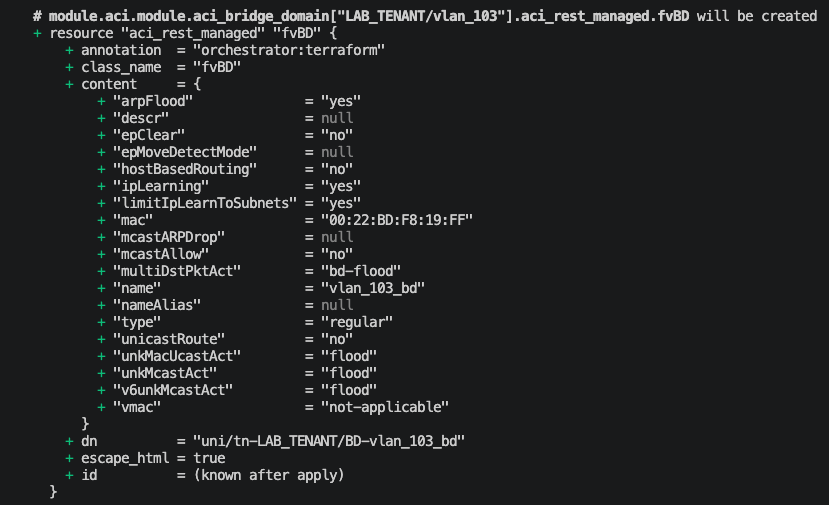
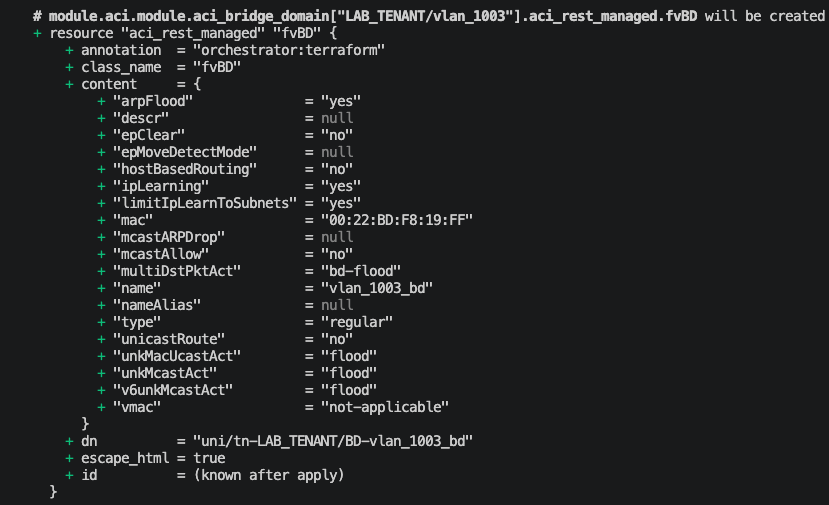
Use consistent node IDs and bridge domain names on the NaC page
Leaf2 is node 1002 in the logs and text, and the bridge domains are
vlan_1001-1003. Updates the three screenshots that showed the old IDs.

Changed region(s): [[0.6031, 0.0, 0.9952, 0.0594], [0.4524, 0.5347, 0.5127, 0.5941], [0.5127, 0.8614, 0.573, 0.8911]]

diff --git a/docs/aci/network-as-code.md b/docs/aci/network-as-code.md
@@ -285,14 +285,14 @@ Terraform used the selected providers to generate the following execution plan. 
 are indicated with the following symbols:
   + create
 
-  # module.aci.module.aci_node_registration["102"].aci_rest_managed.fabricNodeIdentP will be created
+  # module.aci.module.aci_node_registration["1002"].aci_rest_managed.fabricNodeIdentP will be created
   + resource "aci_rest_managed" "fabricNodeIdentP" {
       + annotation  = "orchestrator:terraform"
       + class_name  = "fabricNodeIdentP"
       + content     = {
           + "extPoolId" = null
           + "name"      = "leaf2"
-          + "nodeId"    = "102"
+          + "nodeId"    = "1002"
           + "nodeType"  = "unspecified"
           + "podId"     = "1"
           + "role"      = null
@@ -333,16 +333,16 @@ Do you want to perform these actions?
   Enter a value: yes
 
 …output truncated
-module.aci.module.aci_oob_node_address["102"].aci_rest.mgmtOoB: Creation complete after 2s [id={}]
+module.aci.module.aci_oob_node_address["1002"].aci_rest.mgmtOoB: Creation complete after 2s [id={}]
 module.aci.module.aci_oob_node_address["202"].aci_rest.mgmtOoB: Creation complete after 2s [id={}]
 module.aci.module.aci_oob_node_address["1004"].aci_rest_managed.mgmtRsOoBStNode: Creating...
 module.aci.module.aci_oob_node_address["1001"].aci_rest_managed.mgmtRsOoBStNode: Creating...
 module.aci.module.aci_oob_node_address["201"].aci_rest_managed.mgmtRsOoBStNode: Creating...
 module.aci.module.aci_oob_node_address["1003"].aci_rest_managed.mgmtRsOoBStNode: Creating...
-module.aci.module.aci_oob_node_address["102"].aci_rest_managed.mgmtRsOoBStNode: Creating...
+module.aci.module.aci_oob_node_address["1002"].aci_rest_managed.mgmtRsOoBStNode: Creating...
 module.aci.module.aci_oob_node_address["202"].aci_rest_managed.mgmtRsOoBStNode: Creating...
 module.aci.module.aci_oob_node_address["1004"].aci_rest_managed.mgmtRsOoBStNode: Creation complete after 0s [id=uni/tn-mgmt/mgmtp-default/oob-OOB/rsooBStNode-[topology/pod-1/node-1004]]
-module.aci.module.aci_oob_node_address["102"].aci_rest_managed.mgmtRsOoBStNode: Creation complete after 0s [id=uni/tn-mgmt/mgmtp-default/oob-OOB/rsooBStNode-[topology/pod-1/node-102]]
+module.aci.module.aci_oob_node_address["1002"].aci_rest_managed.mgmtRsOoBStNode: Creation complete after 0s [id=uni/tn-mgmt/mgmtp-default/oob-OOB/rsooBStNode-[topology/pod-1/node-1002]]
 module.aci.module.aci_oob_node_address["202"].aci_rest_managed.mgmtRsOoBStNode: Creation complete after 0s [id=uni/tn-mgmt/mgmtp-default/oob-OOB/rsooBStNode-[topology/pod-1/node-202]]
 module.aci.module.aci_oob_node_address["1003"].aci_rest_managed.mgmtRsOoBStNode: Creation complete after 0s [id=uni/tn-mgmt/mgmtp-default/oob-OOB/rsooBStNode-[topology/pod-1/node-1003]]
 module.aci.module.aci_oob_node_address["201"].aci_rest_managed.mgmtRsOoBStNode: Creation complete after 0s [id=uni/tn-mgmt/mgmtp-default/oob-OOB/rsooBStNode-[topology/pod-1/node-201]]
@@ -519,7 +519,7 @@ The profiles below were created because `auto_generate_switch_pod_profiles: true
 
 Network as Code ships with sensible built-in defaults based on Cisco's best practices. In some cases, those default values might not be the best choice for a particular deployment and can be overwritten if needed. Appending suffixes to object names is a common practice that introduces room for human errors. Using default values, such suffixes can be defined once and then consistently appended to all objects of a specific type including its references. The same approach works for any attribute that should be identical across many objects. For example, in an L2-only fabric, `unicast_routing` can be disabled once in the defaults instead of being set explicitly under every bridge domain.
 
-To validate how default value overrides behave in practice, a LAB_TENANT tenant is defined in `data/lab_tenant.nac.yaml`, containing a VRF (LAB_VRF) and three bridge domains (vlan_1001, vlan_102, vlan_1003) associated with it. Separately, `data/defaults.nac.yaml` overrides two of the module's built-in bridge domain defaults: `name_suffix` is set to `_bd`, and `unicast_routing` is set to `false`.
+To validate how default value overrides behave in practice, a LAB_TENANT tenant is defined in `data/lab_tenant.nac.yaml`, containing a VRF (LAB_VRF) and three bridge domains (vlan_1001, vlan_1002, vlan_1003) associated with it. Separately, `data/defaults.nac.yaml` overrides two of the module's built-in bridge domain defaults: `name_suffix` is set to `_bd`, and `unicast_routing` is set to `false`.
 
 **defaults.nac.yaml**
 
@@ -543,7 +543,7 @@ apic:
       bridge_domains:
         - name: vlan_1001
           vrf: LAB_VRF
-        - name: vlan_102
+        - name: vlan_1002
           vrf: LAB_VRF
         - name: vlan_1003
           vrf: LAB_VRF
